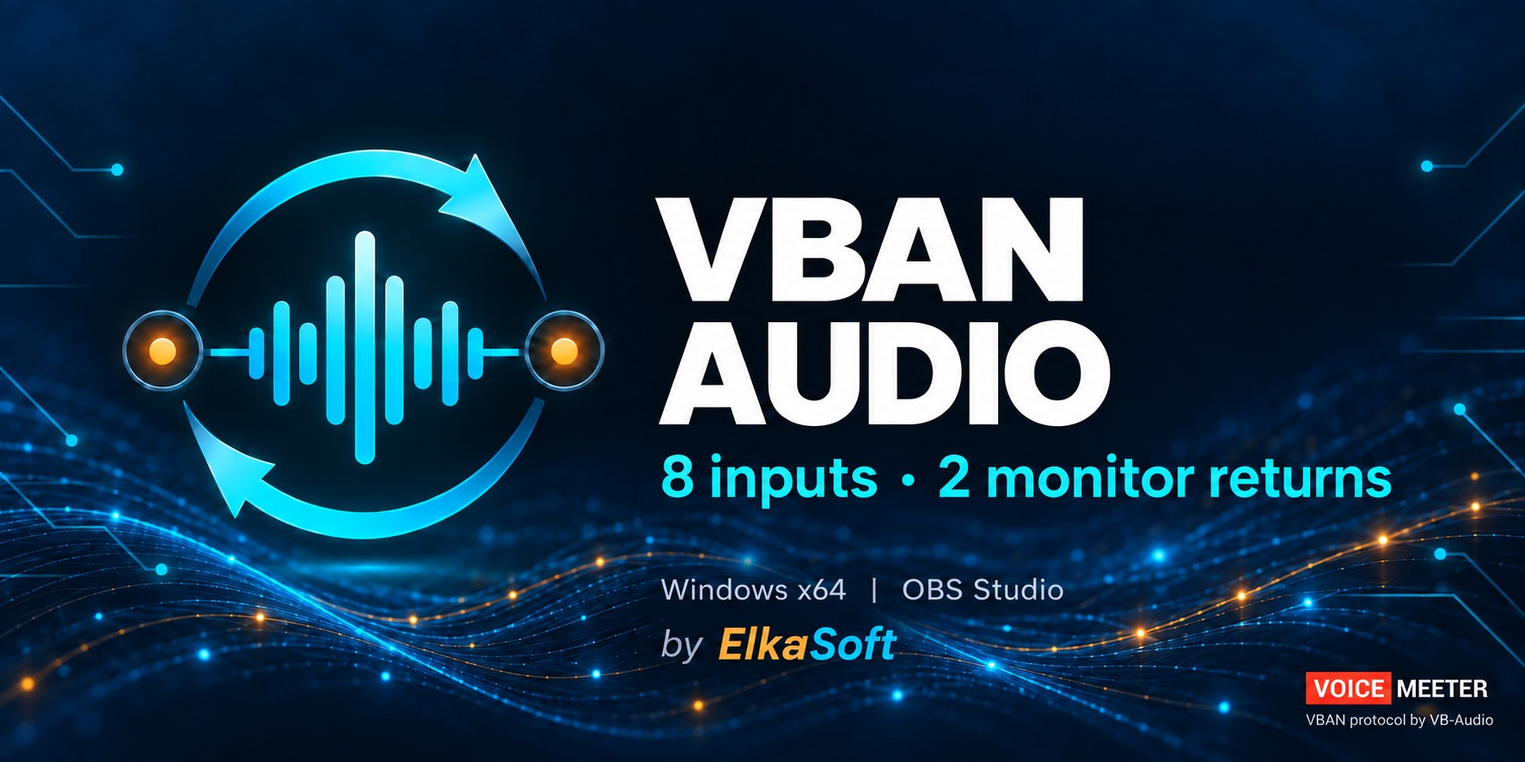
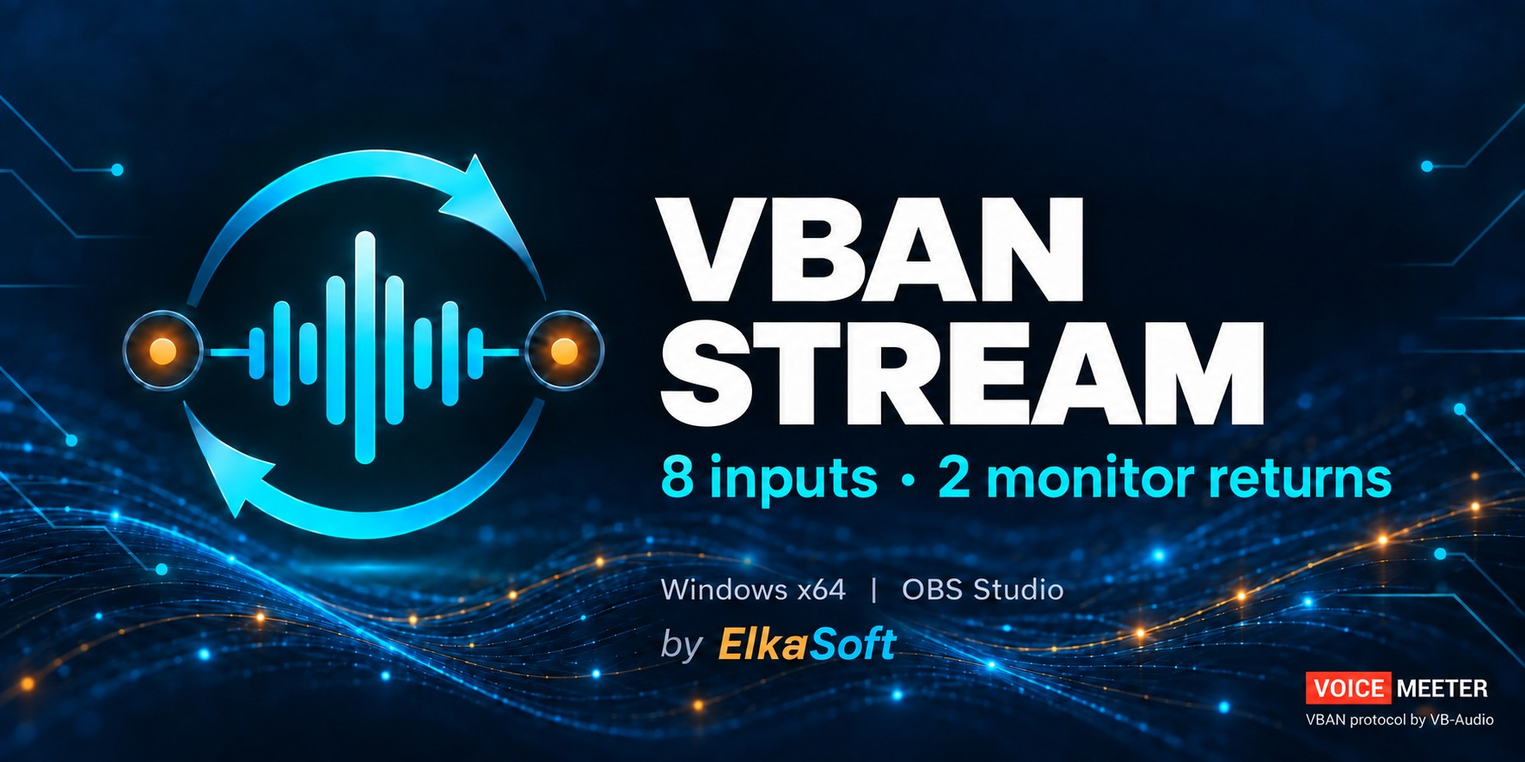
Rename public artwork and documentation to VBAN Stream

diff --git a/docs/ARTWORK-PROMPTS.md b/docs/ARTWORK-PROMPTS.md
@@ -1,84 +1,91 @@
-# VBAN Audio artwork editing prompts
+# VBAN Stream artwork editing prompts
 
-Created with the built-in imagegen tool. The original banner graphics supplied
-the edit targets. Renaming applies only to the main product title; the separate
-`Windows x64 | OBS Studio` compatibility line remains unchanged. Each variant
-was inspected before PNG and JPEG export.
+Edited with the built-in imagegen tool. Each image is a separate text-only edit of the corresponding existing banner. PNG masters and JPEG exports are in `docs/images`.
 
-## wide tagged
+## wide-tagged
 
 ```text
-Use case: text-localization. Make a surgical TEXT-ONLY edit to the FIRST image in your inputs: WIDE HORIZONTAL straight circuit banner WITH the VoiceMeeter credit. Ignore any other input images; they are NOT edit targets and MUST NOT be mixed into this image.
-The product has been renamed from "OBS VBAN Audio" to "VBAN Audio". Change ONLY the LARGE WHITE MAIN TITLE from "OBS VBAN" / "AUDIO" to exactly "VBAN" / "AUDIO".
-Delete "OBS" from that headline only, and reposition the existing VBAN lettering within its existing title area so the two-line VBAN / AUDIO title looks balanced. Use precisely the same existing font, white color, weight and letter height. Keep AUDIO in place. In landscape, left-align VBAN with AUDIO at the existing right-hand title block. In portrait, center VBAN directly above AUDIO.
-ABSOLUTE INVARIANTS: Keep the original canvas dimensions, aspect ratio, full design, background, trace/wave geometry, all lighting and color, every logo element and its placement unchanged. No crop or resize. Keep every OTHER word exactly intact in its current position. In particular KEEP the compatibility line "Windows x64 | OBS Studio" exactly as it is: DO NOT remove OBS Studio there. Keep "8 inputs · 2 monitor returns" and "by ElkaSoft" exactly as they are.
-If the target contains the small bottom-right VOICE MEETER / "VBAN protocol by VB-Audio" credit, retain it unmodified. If it has no such credit, do NOT add one. Preserve the precise left/center cyan double-arrow waveform icon and its two amber nodes: no redesign whatsoever.
-This is the SAME graphic with only OBS removed from the large product title. No other changes. Output just this one edited image in the same orientation as its edit target.
+Use case: text-localization.
+Asset type: wide horizontal product banner.
+Input image: the sole attached image is the exact edit target, not a style reference.
+Primary request: Rename this product from VBAN Audio to VBAN Stream. Change ONLY the large white word "AUDIO" to "STREAM" (S-T-R-E-A-M) immediately beneath "VBAN". Keep the same bold white type style, height and alignment; allow the new word to be wider to fit the extra letter cleanly within the existing title area.
+Strict invariants: keep the exact existing canvas dimensions and aspect ratio, crop, layout, cyan arrow-ring waveform logo, two amber nodes, electronic lines, lighting, colors, background and every other word and credit unchanged. The large title must read "VBAN" on its first line and "STREAM" on its second line. Keep "8 inputs · 2 monitor returns", "Windows x64 | OBS Studio", and "by ElkaSoft" exactly as shown. Keep the small bottom-right VOICE MEETER badge and the caption 'VBAN protocol by VB-Audio' exactly as shown.
+No redesign, no new elements, no movement of the logo or other text, no additional tagline. Output just this one edited banner at full quality.
 ```
 
-## wide untagged
+## wide-untagged
 
 ```text
-Use case: text-localization. Make a surgical TEXT-ONLY edit to the FIRST image in your inputs: WIDE HORIZONTAL straight circuit banner WITHOUT the VoiceMeeter credit. Ignore any other input images; they are NOT edit targets and MUST NOT be mixed into this image.
-The product has been renamed from "OBS VBAN Audio" to "VBAN Audio". Change ONLY the LARGE WHITE MAIN TITLE from "OBS VBAN" / "AUDIO" to exactly "VBAN" / "AUDIO".
-Delete "OBS" from that headline only, and reposition the existing VBAN lettering within its existing title area so the two-line VBAN / AUDIO title looks balanced. Use precisely the same existing font, white color, weight and letter height. Keep AUDIO in place. In landscape, left-align VBAN with AUDIO at the existing right-hand title block. In portrait, center VBAN directly above AUDIO.
-ABSOLUTE INVARIANTS: Keep the original canvas dimensions, aspect ratio, full design, background, trace/wave geometry, all lighting and color, every logo element and its placement unchanged. No crop or resize. Keep every OTHER word exactly intact in its current position. In particular KEEP the compatibility line "Windows x64 | OBS Studio" exactly as it is: DO NOT remove OBS Studio there. Keep "8 inputs · 2 monitor returns" and "by ElkaSoft" exactly as they are.
-If the target contains the small bottom-right VOICE MEETER / "VBAN protocol by VB-Audio" credit, retain it unmodified. If it has no such credit, do NOT add one. Preserve the precise left/center cyan double-arrow waveform icon and its two amber nodes: no redesign whatsoever.
-This is the SAME graphic with only OBS removed from the large product title. No other changes. Output just this one edited image in the same orientation as its edit target.
+Use case: text-localization.
+Asset type: wide horizontal product banner.
+Input image: the sole attached image is the exact edit target, not a style reference.
+Primary request: Rename this product from VBAN Audio to VBAN Stream. Change ONLY the large white word "AUDIO" to "STREAM" (S-T-R-E-A-M) immediately beneath "VBAN". Keep the same bold white type style, height and alignment; allow the new word to be wider to fit the extra letter cleanly within the existing title area.
+Strict invariants: keep the exact existing canvas dimensions and aspect ratio, crop, layout, cyan arrow-ring waveform logo, two amber nodes, electronic lines, lighting, colors, background and every other word and credit unchanged. The large title must read "VBAN" on its first line and "STREAM" on its second line. Keep "8 inputs · 2 monitor returns", "Windows x64 | OBS Studio", and "by ElkaSoft" exactly as shown. Do not add a VoiceMeeter badge or protocol credit.
+No redesign, no new elements, no movement of the logo or other text, no additional tagline. Output just this one edited banner at full quality.
 ```
 
-## vertical tagged
+## vertical-tagged
 
 ```text
-Use case: text-localization. Make a surgical TEXT-ONLY edit to the FIRST image in your inputs: TALL VERTICAL straight circuit banner WITH the VoiceMeeter credit. Ignore any other input images; they are NOT edit targets and MUST NOT be mixed into this image.
-The product has been renamed from "OBS VBAN Audio" to "VBAN Audio". Change ONLY the LARGE WHITE MAIN TITLE from "OBS VBAN" / "AUDIO" to exactly "VBAN" / "AUDIO".
-Delete "OBS" from that headline only, and reposition the existing VBAN lettering within its existing title area so the two-line VBAN / AUDIO title looks balanced. Use precisely the same existing font, white color, weight and letter height. Keep AUDIO in place. In landscape, left-align VBAN with AUDIO at the existing right-hand title block. In portrait, center VBAN directly above AUDIO.
-ABSOLUTE INVARIANTS: Keep the original canvas dimensions, aspect ratio, full design, background, trace/wave geometry, all lighting and color, every logo element and its placement unchanged. No crop or resize. Keep every OTHER word exactly intact in its current position. In particular KEEP the compatibility line "Windows x64 | OBS Studio" exactly as it is: DO NOT remove OBS Studio there. Keep "8 inputs · 2 monitor returns" and "by ElkaSoft" exactly as they are.
-If the target contains the small bottom-right VOICE MEETER / "VBAN protocol by VB-Audio" credit, retain it unmodified. If it has no such credit, do NOT add one. Preserve the precise left/center cyan double-arrow waveform icon and its two amber nodes: no redesign whatsoever.
-This is the SAME graphic with only OBS removed from the large product title. No other changes. Output just this one edited image in the same orientation as its edit target.
+Use case: text-localization.
+Asset type: vertical portrait product banner.
+Input image: the sole attached image is the exact edit target, not a style reference.
+Primary request: Rename this product from VBAN Audio to VBAN Stream. Change ONLY the large white word "AUDIO" to "STREAM" (S-T-R-E-A-M) immediately beneath "VBAN". Keep the same bold white type style, height and alignment; allow the new word to be wider to fit the extra letter cleanly within the existing title area.
+Strict invariants: keep the exact existing canvas dimensions and aspect ratio, crop, layout, cyan arrow-ring waveform logo, two amber nodes, electronic lines, lighting, colors, background and every other word and credit unchanged. The large title must read "VBAN" on its first line and "STREAM" on its second line. Keep "8 inputs · 2 monitor returns", "Windows x64 | OBS Studio", and "by ElkaSoft" exactly as shown. Keep the small bottom-right VOICE MEETER badge and the caption 'VBAN protocol by VB-Audio' exactly as shown.
+No redesign, no new elements, no movement of the logo or other text, no additional tagline. Output just this one edited banner at full quality.
 ```
 
-## vertical untagged
+## vertical-untagged
 
 ```text
-Use case: text-localization. Make a surgical TEXT-ONLY edit to the FIRST image in your inputs: TALL VERTICAL straight circuit banner WITHOUT the VoiceMeeter credit. Ignore any other input images; they are NOT edit targets and MUST NOT be mixed into this image.
-The product has been renamed from "OBS VBAN Audio" to "VBAN Audio". Change ONLY the LARGE WHITE MAIN TITLE from "OBS VBAN" / "AUDIO" to exactly "VBAN" / "AUDIO".
-Delete "OBS" from that headline only, and reposition the existing VBAN lettering within its existing title area so the two-line VBAN / AUDIO title looks balanced. Use precisely the same existing font, white color, weight and letter height. Keep AUDIO in place. In landscape, left-align VBAN with AUDIO at the existing right-hand title block. In portrait, center VBAN directly above AUDIO.
-ABSOLUTE INVARIANTS: Keep the original canvas dimensions, aspect ratio, full design, background, trace/wave geometry, all lighting and color, every logo element and its placement unchanged. No crop or resize. Keep every OTHER word exactly intact in its current position. In particular KEEP the compatibility line "Windows x64 | OBS Studio" exactly as it is: DO NOT remove OBS Studio there. Keep "8 inputs · 2 monitor returns" and "by ElkaSoft" exactly as they are.
-If the target contains the small bottom-right VOICE MEETER / "VBAN protocol by VB-Audio" credit, retain it unmodified. If it has no such credit, do NOT add one. Preserve the precise left/center cyan double-arrow waveform icon and its two amber nodes: no redesign whatsoever.
-This is the SAME graphic with only OBS removed from the large product title. No other changes. Output just this one edited image in the same orientation as its edit target.
+Use case: text-localization.
+Asset type: vertical portrait product banner.
+Input image: the sole attached image is the exact edit target, not a style reference.
+Primary request: Rename this product from VBAN Audio to VBAN Stream. Change ONLY the large white word "AUDIO" to "STREAM" (S-T-R-E-A-M) immediately beneath "VBAN". Keep the same bold white type style, height and alignment; allow the new word to be wider to fit the extra letter cleanly within the existing title area.
+Strict invariants: keep the exact existing canvas dimensions and aspect ratio, crop, layout, cyan arrow-ring waveform logo, two amber nodes, electronic lines, lighting, colors, background and every other word and credit unchanged. The large title must read "VBAN" on its first line and "STREAM" on its second line. Keep "8 inputs · 2 monitor returns", "Windows x64 | OBS Studio", and "by ElkaSoft" exactly as shown. Do not add a VoiceMeeter badge or protocol credit.
+No redesign, no new elements, no movement of the logo or other text, no additional tagline. Output just this one edited banner at full quality.
 ```
 
-## waves tagged
+## waves-wide-tagged
 
 ```text
-Use case: text-localization. Make a surgical TEXT-ONLY edit to the ONLY image in your inputs: WIDE HORIZONTAL waves banner WITH the VoiceMeeter credit. Ignore any other input images; they are NOT edit targets and MUST NOT be mixed into this image.
-The product has been renamed from "OBS VBAN Audio" to "VBAN Audio". Change ONLY the LARGE WHITE MAIN TITLE from "OBS VBAN" / "AUDIO" to exactly "VBAN" / "AUDIO".
-Delete "OBS" from that headline only, and reposition the existing VBAN lettering within its existing title area so the two-line VBAN / AUDIO title looks balanced. Use precisely the same existing font, white color, weight and letter height. Keep AUDIO in place. In landscape, left-align VBAN with AUDIO at the existing right-hand title block. In portrait, center VBAN directly above AUDIO.
-ABSOLUTE INVARIANTS: Keep the original canvas dimensions, aspect ratio, full design, background, trace/wave geometry, all lighting and color, every logo element and its placement unchanged. No crop or resize. Keep every OTHER word exactly intact in its current position. In particular KEEP the compatibility line "Windows x64 | OBS Studio" exactly as it is: DO NOT remove OBS Studio there. Keep "8 inputs · 2 monitor returns" and "by ElkaSoft" exactly as they are.
-If the target contains the small bottom-right VOICE MEETER / "VBAN protocol by VB-Audio" credit, retain it unmodified. If it has no such credit, do NOT add one. Preserve the precise left/center cyan double-arrow waveform icon and its two amber nodes: no redesign whatsoever.
-This is the SAME graphic with only OBS removed from the large product title. No other changes. Output just this one edited image in the same orientation as its edit target.
+Use case: text-localization.
+Asset type: wide horizontal product banner.
+Input image: the sole attached image is the exact edit target, not a style reference.
+Primary request: Rename this product from VBAN Audio to VBAN Stream. Change ONLY the large white word "AUDIO" to "STREAM" (S-T-R-E-A-M) immediately beneath "VBAN". Keep the same bold white type style, height and alignment; allow the new word to be wider to fit the extra letter cleanly within the existing title area.
+Strict invariants: keep the exact existing canvas dimensions and aspect ratio, crop, layout, cyan arrow-ring waveform logo, two amber nodes, electronic lines, all cyan/amber waves, lighting, colors, background and every other word and credit unchanged. The large title must read "VBAN" on its first line and "STREAM" on its second line. Keep "8 inputs · 2 monitor returns", "Windows x64 | OBS Studio", and "by ElkaSoft" exactly as shown. Keep the small bottom-right VOICE MEETER badge and the caption 'VBAN protocol by VB-Audio' exactly as shown.
+No redesign, no new elements, no movement of the logo or other text, no additional tagline. Output just this one edited banner at full quality.
 ```
 
-## waves wide untagged
+## waves-wide-untagged
 
 ```text
-Use case: precise-object-edit. Edit the ONLY input image: the newly renamed WIDE waves-and-circuit VBAN AUDIO banner. Remove ONLY the small bottom-right VOICE MEETER badge and the small caption "VBAN protocol by VB-Audio" underneath it. Fill ONLY that small removed area naturally with the existing dark navy background. Everything else remains visually identical: exact 1774 × 887 landscape canvas, left cyan arrow-ring waveform and amber nodes, blue/amber waves, straight edge circuit lines, all typography, title VBAN / AUDIO, subtitle "8 inputs · 2 monitor returns", "Windows x64 | OBS Studio" compatibility line, and "by ElkaSoft". Keep every remaining element in its exact current place and at the exact current scale. No other changes.
+Use case: text-localization.
+Asset type: wide horizontal product banner.
+Input image: the sole attached image is the exact edit target, not a style reference.
+Primary request: Rename this product from VBAN Audio to VBAN Stream. Change ONLY the large white word "AUDIO" to "STREAM" (S-T-R-E-A-M) immediately beneath "VBAN". Keep the same bold white type style, height and alignment; allow the new word to be wider to fit the extra letter cleanly within the existing title area.
+Strict invariants: keep the exact existing canvas dimensions and aspect ratio, crop, layout, cyan arrow-ring waveform logo, two amber nodes, electronic lines, all cyan/amber waves, lighting, colors, background and every other word and credit unchanged. The large title must read "VBAN" on its first line and "STREAM" on its second line. Keep "8 inputs · 2 monitor returns", "Windows x64 | OBS Studio", and "by ElkaSoft" exactly as shown. Do not add a VoiceMeeter badge or protocol credit.
+No redesign, no new elements, no movement of the logo or other text, no additional tagline. Output just this one edited banner at full quality.
 ```
 
-## waves vertical tagged
+## waves-vertical-tagged
 
 ```text
-Use case: compositing / portrait layout adaptation.
-Input image 1 is the renamed VERTICAL STRAIGHT-CIRCUIT VBAN AUDIO banner and is ONLY a portrait layout reference. Input image 2 is the renamed WIDE WAVES-AND-CIRCUIT VBAN AUDIO banner and is the design/style target.
-Make the VERTICAL portrait companion of the WAVES banner, at the same tall approximately 9:16 proportions as image 1 (941 × 1672 preferred). Match its generous vertical layout: title at the top, unchanged original VBAN Audio icon centered in the middle, subtitle and compatibility below, brand/footer credits at the bottom.
-Preserve the exact original logo design from image 2: cyan two-arrow ring, cyan waveform bars and two amber endpoint nodes in cyan-rimmed circles. All colors, shapes and proportions unchanged; scale uniformly. The large white title is exactly "VBAN" then "AUDIO", never OBS before VBAN. Same bold font and white color.
-Preserve all other text verbatim: cyan "8 inputs · 2 monitor returns"; muted grey "Windows x64 | OBS Studio"; italic "by ElkaSoft" with orange Elka and cyan Soft; small bottom-right credit with white VOICE in a red box and white MEETER beside it, grey "VBAN protocol by VB-Audio" below.
-Background MUST use the target WAVES-AND-CIRCUIT design, not all straight traces: dark navy atmospheric depth, blue/cyan and warm amber flowing fine light waves across the lower portion behind the logo, and sparse straight angled cyan circuit accents at the edges, small luminous nodes, tasteful bloom and near/far depth. Leave quiet dark space behind lettering. Preserve the style and branding of image 2, merely arranged as a tall portrait companion. No added words or objects. No mockup.
+Use case: text-localization.
+Asset type: vertical portrait product banner.
+Input image: the sole attached image is the exact edit target, not a style reference.
+Primary request: Rename this product from VBAN Audio to VBAN Stream. Change ONLY the large white word "AUDIO" to "STREAM" (S-T-R-E-A-M) immediately beneath "VBAN". Keep the same bold white type style, height and alignment; allow the new word to be wider to fit the extra letter cleanly within the existing title area.
+Strict invariants: keep the exact existing canvas dimensions and aspect ratio, crop, layout, cyan arrow-ring waveform logo, two amber nodes, electronic lines, all cyan/amber waves, lighting, colors, background and every other word and credit unchanged. The large title must read "VBAN" on its first line and "STREAM" on its second line. Keep "8 inputs · 2 monitor returns", "Windows x64 | OBS Studio", and "by ElkaSoft" exactly as shown. Keep the small bottom-right VOICE MEETER badge and the caption 'VBAN protocol by VB-Audio' exactly as shown.
+No redesign, no new elements, no movement of the logo or other text, no additional tagline. Output just this one edited banner at full quality.
 ```
 
-## waves vertical untagged
+## waves-vertical-untagged
 
 ```text
-Use case: precise-object-edit. Edit ONLY the most recent tall portrait VBAN AUDIO banner with flowing cyan/amber waves and sparse straight edge circuit traces. Remove ONLY the small VOICE MEETER badge and "VBAN protocol by VB-Audio" caption in the bottom-right corner. Cleanly reconstruct the same dark navy background inside that small removed area. Keep absolutely every other element identical: same portrait canvas and dimensions, logo design and placement, waveform bars, cyan ring arrows, two amber endpoint nodes, every wave and circuit trace, lighting, every word and font and position. Retain "VBAN" / "AUDIO", "8 inputs · 2 monitor returns", "Windows x64 | OBS Studio", and "by ElkaSoft". No crop, redesign, re-layout or new text. Output the exact matching portrait version WITHOUT the VoiceMeeter credit.
+Use case: text-localization.
+Asset type: vertical portrait product banner.
+Input image: the sole attached image is the exact edit target, not a style reference.
+Primary request: Rename this product from VBAN Audio to VBAN Stream. Change ONLY the large white word "AUDIO" to "STREAM" (S-T-R-E-A-M) immediately beneath "VBAN". Keep the same bold white type style, height and alignment; allow the new word to be wider to fit the extra letter cleanly within the existing title area.
+Strict invariants: keep the exact existing canvas dimensions and aspect ratio, crop, layout, cyan arrow-ring waveform logo, two amber nodes, electronic lines, all cyan/amber waves, lighting, colors, background and every other word and credit unchanged. The large title must read "VBAN" on its first line and "STREAM" on its second line. Keep "8 inputs · 2 monitor returns", "Windows x64 | OBS Studio", and "by ElkaSoft" exactly as shown. Do not add a VoiceMeeter badge or protocol credit.
+No redesign, no new elements, no movement of the logo or other text, no additional tagline. Output just this one edited banner at full quality.
 ```

diff --git a/README.md b/README.md
@@ -1,18 +1,19 @@
 <p align="center">
-  <img src="docs/images/social-preview.jpg" width="100%" alt="VBAN Audio by ElkaSoft: 8 inputs and 2 monitor returns for OBS Studio on Windows x64">
+  <img src="docs/images/social-preview.jpg" width="100%" alt="VBAN Stream by ElkaSoft: 8 inputs and 2 monitor returns for OBS Studio on Windows x64">
 </p>
 
-# VBAN Audio
+# VBAN Stream
 
 **Eight VBAN audio inputs and two monitor-mix returns for OBS Studio on Windows x64.**
 
 An independent plugin by **ElkaSoft** for OBS Studio.
 
-Receive named VBAN streams directly in OBS. Send the OBS monitoring mix back to
+Receive named VBAN streams with 1–8 channels each directly in OBS. Send the OBS monitoring mix back to
 two computers, each with its own destination address, UDP port, and stream name.
 
 [**Download the latest stable release**](https://github.com/torment78/obs-vban-audio/releases/latest)
- · [Try the 0.2.3 pre-release](https://github.com/torment78/obs-vban-audio/releases/tag/v0.2.3)
+ · [Try the 0.2.4 pre-release](https://github.com/torment78/obs-vban-audio/releases/tag/v0.2.4)
+ · [Download all banners](https://github.com/torment78/obs-vban-audio/releases/download/v0.2.4/VBAN-Stream-artwork.zip)
  · [Installation guide](docs/INSTALL-OBS-ROOT.txt)
  · [Report an issue](https://github.com/torment78/obs-vban-audio/issues)
 
@@ -24,22 +25,22 @@ Free and open source under GPL-2.0-or-later. Donations support development and a
 
 ## Download and install
 
-The files below are the **0.2.3 pre-release**. The latest stable version is **0.2.2**. Tested with **OBS 31.1.1** and **OBS 32.2.1** on Windows x64.
+The files below are the **0.2.4 pre-release**. The latest stable version is **0.2.2** and retains the earlier VBAN Audio name. Tested with **OBS 31.1.1** and **OBS 32.2.1** on Windows x64.
 
 | Download | Where it goes |
 | --- | --- |
-| **obs-vban-audio-0.2.3-windows-x64-setup.exe** | Guided installer for **standard or portable OBS**. Finds installed OBS or lets you browse to its root folder. |
-| **obs-vban-audio-0.2.3-obs-root.zip** | Merge its **obs-plugins** and **data** folders into the OBS installation folder. Works with **normal and portable OBS**. |
-| **obs-vban-audio-0.2.3-windows-x64.zip** | Copy its **obs-vban-audio** folder into **C:\ProgramData\obs-studio\plugins** for a normal OBS installation. |
+| **vban-stream-0.2.4-windows-x64-setup.exe** | Guided installer for **standard or portable OBS**. Finds installed OBS or lets you browse to its root folder. |
+| **vban-stream-0.2.4-obs-root.zip** | Merge its **obs-plugins** and **data** folders into the OBS installation folder. Works with **normal and portable OBS**. |
+| **vban-stream-0.2.4-windows-x64.zip** | Copy its **obs-vban-audio** folder into **C:\ProgramData\obs-studio\plugins** for a normal OBS installation. |
 
 ### Using the installer
 
-1. Close OBS, run **obs-vban-audio-0.2.3-windows-x64-setup.exe**, and approve the Windows administrator prompt.
+1. Close OBS, run **vban-stream-0.2.4-windows-x64-setup.exe**, and approve the Windows administrator prompt.
 2. Choose **Standard OBS installation** (selected by default) or **Portable OBS**.
 3. Check the detected standard OBS folder, or click **Browse** to choose your portable
    OBS root: the folder containing **bin**, **data**, and **obs-plugins**.
 4. Click **Next**, review the paths, then **Install**. Restart OBS and open
-   **Tools → VBAN Audio Settings**.
+   **Tools → VBAN Stream Settings**.
 
 Both installer modes put the DLL and data inside the selected OBS folder. Standard
 mode adds a Windows Installed apps entry; portable mode keeps its uninstaller in
@@ -66,7 +67,7 @@ C:\Program Files\obs-studio\
 ```
 
 For portable OBS, use the same layout inside its own root folder.
-Restart OBS and open **Tools → VBAN Audio Settings**.
+Restart OBS and open **Tools → VBAN Stream Settings**.
 The ZIPs also include **VBAN-INSTALL.txt**.
 
 Requires the Microsoft Visual C++ x64 runtime. Uses the OBS installation's own
@@ -75,12 +76,21 @@ into OBS. These builds are unsigned.
 
 ## Receive VBAN audio in OBS
 
-1. Open **Tools → VBAN Audio Settings**.
+1. Open **Tools → VBAN Stream Settings**.
 2. Enter the sender computer's IPv4 address and the UDP listen port (default **6980**).
 3. Enable the slots you need. Enter each exact, case-sensitive VBAN stream name.
    Use **Friendly name** for the label you want in OBS.
 4. Click **Apply**. Configure the sender to send to this OBS computer and the same port.
-5. Add **Sources + → VBAN Audio**, then select the configured stream.
+5. Add **Sources + → VBAN Stream**, then select the configured stream.
+
+Each named stream automatically accepts **1–8 audio channels**; there is no
+channel-count selector. The eight slots are eight separate streams, each of which
+can carry up to eight channels. One source remains one mixer fader.
+
+To retain all eight channels through OBS, set **Settings → Audio → Channels → 7.1**
+and use an output/recording format that supports it. With OBS set to **Stereo**,
+OBS downmixes multichannel input to stereo. Seven-channel input uses a silent
+eighth channel. The two monitor returns remain stereo.
 
 The source appears as a normal OBS mixer fader. Default source names adopt the
 friendly name; manually assigned names are preserved. Multiple sources can select
@@ -174,10 +184,10 @@ Install **Desktop development with C++**, **MSVC v145**, **Windows SDK 10.0.2610
 and **C++ CMake tools for Windows**. CMake 4.3 or newer is required.
 No .NET/C# project or separate Qt installation is needed.
 
-Clone into a working folder, then run PowerShell there:
+To build the current pre-release, clone the dev branch into a working folder, then run PowerShell there:
 
 ```powershell
-git clone https://github.com/torment78/obs-vban-audio.git
+git clone --branch dev https://github.com/torment78/obs-vban-audio.git
 cd obs-vban-audio
 .\tools\build.ps1 -Package
 ```
@@ -223,7 +233,7 @@ Include OBS/plugin versions, sample rate, return buffer, and which counters incr
 Remove private addresses or other personal information from logs before posting.
 
 [Donate on Ko-fi](https://ko-fi.com/msffixit), or use the Donate button in
-**Tools → VBAN Audio Settings**.
+**Tools → VBAN Stream Settings**.
 
 Built on the [official OBS plugin template](https://github.com/obsproject/obs-plugintemplate)
 and the [public OBS source API](https://docs.obsproject.com/reference-sources).

diff --git a/docs/ARTWORK.md b/docs/ARTWORK.md
@@ -1,49 +1,51 @@
-# VBAN Audio artwork
+# VBAN Stream artwork
 
-Eight banners for **VBAN Audio by ElkaSoft**, in two matching styles:
+Eight banners for **VBAN Stream by ElkaSoft**, in two matching styles:
 **straight circuit lines** and **waves with circuit lines**. Each style has
 horizontal and vertical versions, with and without the small VoiceMeeter /
 VB-Audio credit.
 
 All versions retain the original cyan/amber logo design, the feature text, and
 the compatibility line **Windows x64 | OBS Studio**. The main product title is
-**VBAN Audio**. The ElkaSoft attribution appears in every version.
+**VBAN Stream**. The ElkaSoft attribution appears in every version.
 
 ## Downloads
+
+[Download the complete PNG + JPEG ZIP](https://github.com/torment78/obs-vban-audio/releases/download/v0.2.4/VBAN-Stream-artwork.zip).
 
 Every JPEG is **under 1 MB**, exported at quality 92 without resizing.
 PNG originals are also provided.
 
 | Design and version | Dimensions | Web / social image | Original image |
 | --- | --- | --- | --- |
-| Circuits — horizontal — with credit | 1774 × 887 | [JPEG (210.3 KB)](images/social-preview.jpg) | [PNG](images/wide-tagged.png) |
-| Circuits — horizontal — without credit | 1774 × 887 | [JPEG (203.1 KB)](images/social-preview-untagged.jpg) | [PNG](images/wide-untagged.png) |
-| Circuits — vertical — with credit | 941 × 1672 | [JPEG (224.9 KB)](images/vertical-tagged.jpg) | [PNG](images/vertical-tagged.png) |
-| Circuits — vertical — without credit | 941 × 1672 | [JPEG (216.5 KB)](images/vertical-untagged.jpg) | [PNG](images/vertical-untagged.png) |
-| Waves — horizontal — with credit | 1774 × 887 | [JPEG (242.5 KB)](images/waves-wide-tagged.jpg) | [PNG](images/waves-wide-tagged.png) |
-| Waves — horizontal — without credit | 1774 × 887 | [JPEG (238.0 KB)](images/waves-wide-untagged.jpg) | [PNG](images/waves-wide-untagged.png) |
-| Waves — vertical — with credit | 941 × 1672 | [JPEG (256.4 KB)](images/waves-vertical-tagged.jpg) | [PNG](images/waves-vertical-tagged.png) |
-| Waves — vertical — without credit | 941 × 1672 | [JPEG (251.0 KB)](images/waves-vertical-untagged.jpg) | [PNG](images/waves-vertical-untagged.png) |
+| Circuits — horizontal — with credit | 1774 × 887 | [JPEG (214.5 KB)](images/social-preview.jpg) | [PNG](images/wide-tagged.png) |
+| Circuits — horizontal — without credit | 1774 × 887 | [JPEG (209.2 KB)](images/social-preview-untagged.jpg) | [PNG](images/wide-untagged.png) |
+| Circuits — vertical — with credit | 941 × 1672 | [JPEG (226.9 KB)](images/vertical-tagged.jpg) | [PNG](images/vertical-tagged.png) |
+| Circuits — vertical — without credit | 941 × 1672 | [JPEG (219.2 KB)](images/vertical-untagged.jpg) | [PNG](images/vertical-untagged.png) |
+| Waves — horizontal — with credit | 1774 × 887 | [JPEG (248.9 KB)](images/waves-wide-tagged.jpg) | [PNG](images/waves-wide-tagged.png) |
+| Waves — horizontal — without credit | 1774 × 887 | [JPEG (243.0 KB)](images/waves-wide-untagged.jpg) | [PNG](images/waves-wide-untagged.png) |
+| Waves — vertical — with credit | 941 × 1672 | [JPEG (258.3 KB)](images/waves-vertical-tagged.jpg) | [PNG](images/waves-vertical-tagged.png) |
+| Waves — vertical — without credit | 941 × 1672 | [JPEG (251.8 KB)](images/waves-vertical-untagged.jpg) | [PNG](images/waves-vertical-untagged.png) |
 
 ## Straight circuit lines
 
 | Horizontal with credit | Horizontal without credit |
 | --- | --- |
-| [![VBAN Audio circuit banner with credit](images/social-preview.jpg)](images/social-preview.jpg) | [![VBAN Audio circuit banner without credit](images/social-preview-untagged.jpg)](images/social-preview-untagged.jpg) |
+| [![VBAN Stream circuit banner with credit](images/social-preview.jpg)](images/social-preview.jpg) | [![VBAN Stream circuit banner without credit](images/social-preview-untagged.jpg)](images/social-preview-untagged.jpg) |
 
 | Vertical with credit | Vertical without credit |
 | --- | --- |
-| <img src="images/vertical-tagged.jpg" width="320" alt="VBAN Audio vertical circuit banner with credit"> | <img src="images/vertical-untagged.jpg" width="320" alt="VBAN Audio vertical circuit banner without credit"> |
+| <img src="images/vertical-tagged.jpg" width="320" alt="VBAN Stream vertical circuit banner with credit"> | <img src="images/vertical-untagged.jpg" width="320" alt="VBAN Stream vertical circuit banner without credit"> |
 
 ## Waves with circuit lines
 
 | Horizontal with credit | Horizontal without credit |
 | --- | --- |
-| [![VBAN Audio waves banner with credit](images/waves-wide-tagged.jpg)](images/waves-wide-tagged.jpg) | [![VBAN Audio waves banner without credit](images/waves-wide-untagged.jpg)](images/waves-wide-untagged.jpg) |
+| [![VBAN Stream waves banner with credit](images/waves-wide-tagged.jpg)](images/waves-wide-tagged.jpg) | [![VBAN Stream waves banner without credit](images/waves-wide-untagged.jpg)](images/waves-wide-untagged.jpg) |
 
 | Vertical with credit | Vertical without credit |
 | --- | --- |
-| <img src="images/waves-vertical-tagged.jpg" width="320" alt="VBAN Audio vertical waves banner with credit"> | <img src="images/waves-vertical-untagged.jpg" width="320" alt="VBAN Audio vertical waves banner without credit"> |
+| <img src="images/waves-vertical-tagged.jpg" width="320" alt="VBAN Stream vertical waves banner with credit"> | <img src="images/waves-vertical-untagged.jpg" width="320" alt="VBAN Stream vertical waves banner without credit"> |
 
 ## Website and social use
 
@@ -66,8 +68,7 @@ installer icon are separate assets and have not changed.
 
 ## Creation
 
-The existing artwork was edited with the built-in imagegen tool to remove
-**OBS** from the large product title while preserving the separate OBS Studio
-compatibility line. The waves design was also adapted to portrait and exported
-with and without the credit. See the [editing prompts](ARTWORK-PROMPTS.md)
-and [icon documentation](ICON.md).
+The existing banners were edited with the built-in imagegen tool to replace
+only the large **AUDIO** title with **STREAM**. The circuit/waves backgrounds,
+logo, feature text, compatibility line and credits retain their existing design.
+See the [editing prompts](ARTWORK-PROMPTS.md) and [icon documentation](ICON.md).

diff --git a/docs/INSTALLER.md b/docs/INSTALLER.md
@@ -1,6 +1,6 @@
 # Windows installer
 
-The EXE is an additional package for the existing 0.2.3 release. It contains the
+The EXE is an additional package for the existing 0.2.4 release. It contains the
 same tested plugin DLL as the ZIP downloads.
 
 ## Build
@@ -21,7 +21,7 @@ Packaging also converts the existing plugin PNG into a multi-resolution Windows
 ICO and embeds it in Setup/Uninstall. The Installed apps entry uses the uninstaller's
 matching icon. All seven ICO frame payloads were verified in the compiled setup EXE.
 
-Output: `dist\obs-vban-audio-0.2.3-windows-x64-setup.exe`.
+Output: `dist\vban-stream-0.2.4-windows-x64-setup.exe`.
 
 ## Installation behavior
 
@@ -66,7 +66,7 @@ destinations under `build_installer`. It does not start OBS. It refuses to run
 over an existing current-user uninstall registration and removes the temporary
 registration through the uninstaller.
 
-53 checks passed for the final 0.2.3 installer:
+53 checks passed for the final 0.2.4 installer:
 
 - Both standard and portable installation, matching DLL hash and required files.
 - Repeated installation/update without duplicate uninstallers.
@@ -78,7 +78,7 @@ registration through the uninstaller.
 - Reinstall/uninstall in the moved folder leaves the original OBS copy intact.
 
 The tested DLL SHA256 is
[2 lines of base64/hex data omitted]
 
 The administrator consent dialog and writes to protected Program Files folders
 are not exercised by these non-elevated tests. Desktop UI inspection was

diff --git a/docs/ICON.md b/docs/ICON.md
@@ -1,6 +1,6 @@
 # Project artwork
 
-The product is **VBAN Audio by ElkaSoft**, an independent plugin for OBS Studio.
+The product is **VBAN Stream by ElkaSoft**, an independent plugin for OBS Studio.
 
 ## Icon
 
@@ -22,11 +22,11 @@ background. It contains no lettering.
 
 Two background styles are available: straight circuit lines and waves with
 circuit lines. Each has horizontal and vertical versions with and without the
-small VoiceMeeter / VB-Audio credit. Every banner reads **VBAN Audio**, retains
+small VoiceMeeter / VB-Audio credit. Every banner reads **VBAN Stream**, retains
 **by ElkaSoft**, and keeps **Windows x64 | OBS Studio** as the compatibility line.
 
 The README uses [images/social-preview.jpg](images/social-preview.jpg):
-**1774 × 887 pixels, 210,335 bytes**. All JPEGs are under 1 MB, at
+**1774 × 887 pixels, 214,474 bytes**. All JPEGs are under 1 MB, at
 the same dimensions as their PNG originals. JPEG quality is 92.
 
 To change the image shown when the GitHub repository link is shared:

diff --git a/PROJECT.md b/PROJECT.md
@@ -1,4 +1,4 @@
-# VBAN Audio
+# VBAN Stream
 
 Native Windows x64 OBS plugin: eight shared VBAN receive slots and two independent
 monitor-mix returns. Build with Visual Studio 2026 and the windows-x64 CMake preset.
